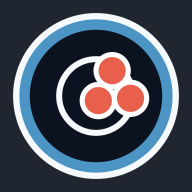
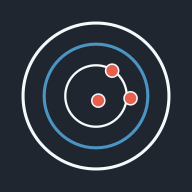
Redraw the brand mark as fine outlined rings instead of filled discs
Inspired by a fine-line reference icon: thin concentric rings and small
holes replace the filled paper/aiming discs, read on any dark background
without a filled circle of its own. Regenerated public/icons, favicon.svg,
and the matching docs/brand copies from the same brand-mark.ts source.

Claude-Session: https://claude.ai/code/session_011nJupxVuQvQUQUo39E3m88

diff --git a/src/lib/render/brand-mark.ts b/src/lib/render/brand-mark.ts
@@ -1,15 +1,20 @@
-// REV-104: the NordicAim mark as SVG, one source for the app icons (scripts/make-icons.ts) and the summary image's header. Pure.
-// A biathlon target seen from the firing line: white paper disc, black aiming disc with an accent ring, one white scoring ring (a slim paper margin, REV-121), and a
-// tight group of three same-size holes just off centre. Drawn on a 100-unit grid inside the square at (x, y) of side `size`.
+// REV-138 (icon redesign): the NordicAim mark as SVG, one source for the app icons (scripts/make-icons.ts) and the summary
+// image's header. Pure. A biathlon target seen from the firing line, drawn fine-line rather than filled: three concentric
+// outlined rings and a tight group of three small holes just off centre. Drawn on a 100-unit grid inside the square at
+// (x, y) of side `size`, on the caller's own dark background (no filled disc of its own).
 
 const PAPER = '#F7FAFD';
 const ACCENT = '#4B94C3';
-const AIM = '#0B1220';
 const HOLE = '#E8604C';
 const HOLES: ReadonlyArray<readonly [number, number, number]> = [
-  [58.4, 36.8, 8.4],
-  [68, 51.2, 8.4],
-  [51.2, 52.4, 8.4],
+  [58.4, 36.8, 3.4],
+  [68, 51.2, 3.4],
+  [51.2, 52.4, 3.4],
+];
+const RINGS: ReadonlyArray<readonly [number, string, number]> = [
+  [38, PAPER, 1.6],
+  [27, ACCENT, 1.6],
+  [16, PAPER, 1.2],
 ];
 
 export const BRAND_TILE = '#1F2630';
@@ -19,16 +24,11 @@ export function brandMotif(x: number, y: number, size: number): string {
   const at = (v: number, o: number) => (o + v * k).toFixed(2);
   const len = (v: number) => (v * k).toFixed(2);
   const c = (v: number, o: number) => at(v, o);
-  const holes = HOLES.map(
-    ([hx, hy, r]) => `<circle cx="${c(hx, x)}" cy="${c(hy, y)}" r="${len(r)}" fill="${HOLE}" stroke="#FFFFFF" stroke-width="${len(2.64)}" />`,
+  const rings = RINGS.map(
+    ([r, stroke, width]) => `<circle cx="${c(50, x)}" cy="${c(50, y)}" r="${len(r)}" fill="none" stroke="${stroke}" stroke-width="${len(width)}" />`,
   ).join('');
-  return (
-    `<g class="brand-mark">` +
-    `<circle cx="${c(50, x)}" cy="${c(50, y)}" r="${len(43.2)}" fill="${PAPER}" />` +
-    `<circle cx="${c(50, x)}" cy="${c(50, y)}" r="${len(37.2)}" fill="${AIM}" />` +
-    `<circle cx="${c(50, x)}" cy="${c(50, y)}" r="${len(37.2)}" fill="none" stroke="${ACCENT}" stroke-width="${len(5.4)}" />` +
-    `<circle cx="${c(50, x)}" cy="${c(50, y)}" r="${len(19.2)}" fill="none" stroke="${PAPER}" stroke-width="${len(3.12)}" />` +
-    holes +
-    `</g>`
-  );
+  const holes = HOLES.map(
+    ([hx, hy, r]) => `<circle cx="${c(hx, x)}" cy="${c(hy, y)}" r="${len(r)}" fill="${HOLE}" stroke="${PAPER}" stroke-width="${len(0.8)}" />`,
+  ).join('');
+  return `<g class="brand-mark">${rings}${holes}</g>`;
 }
